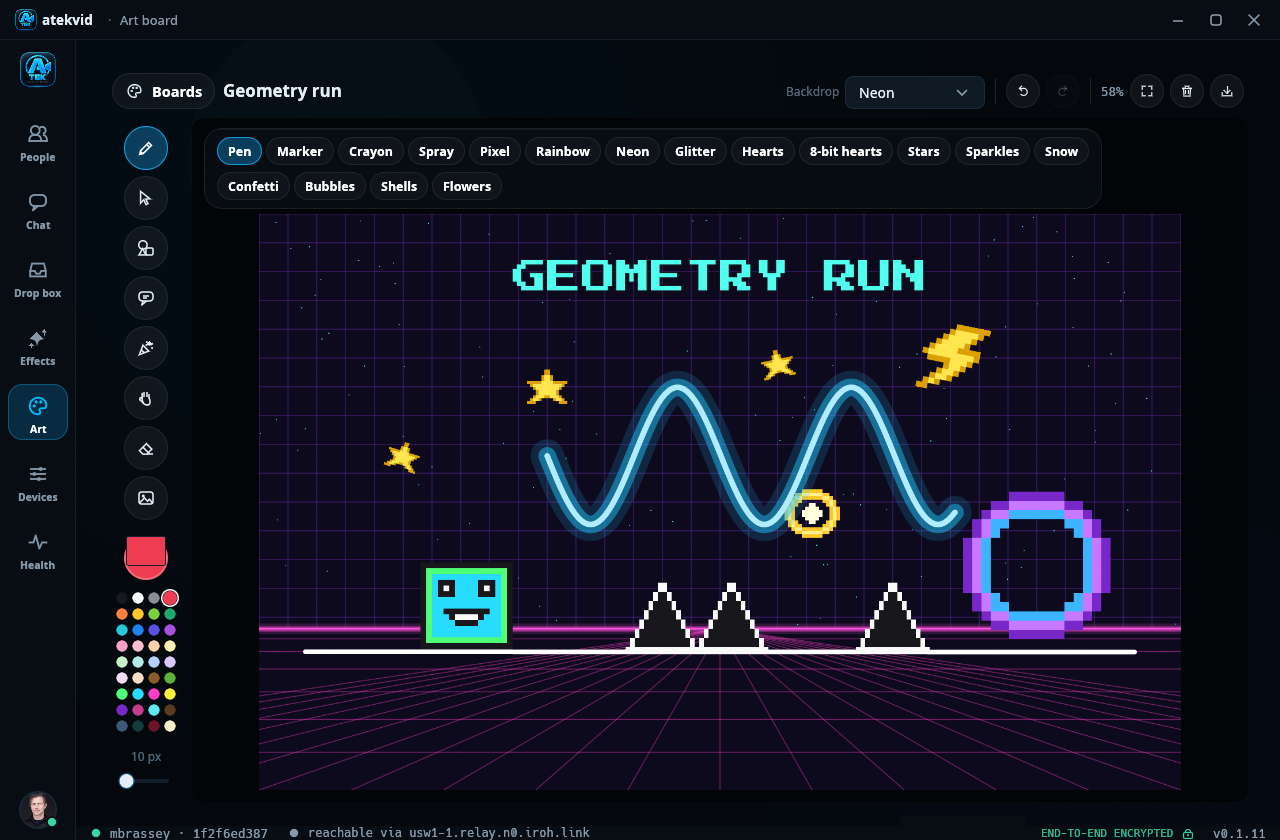
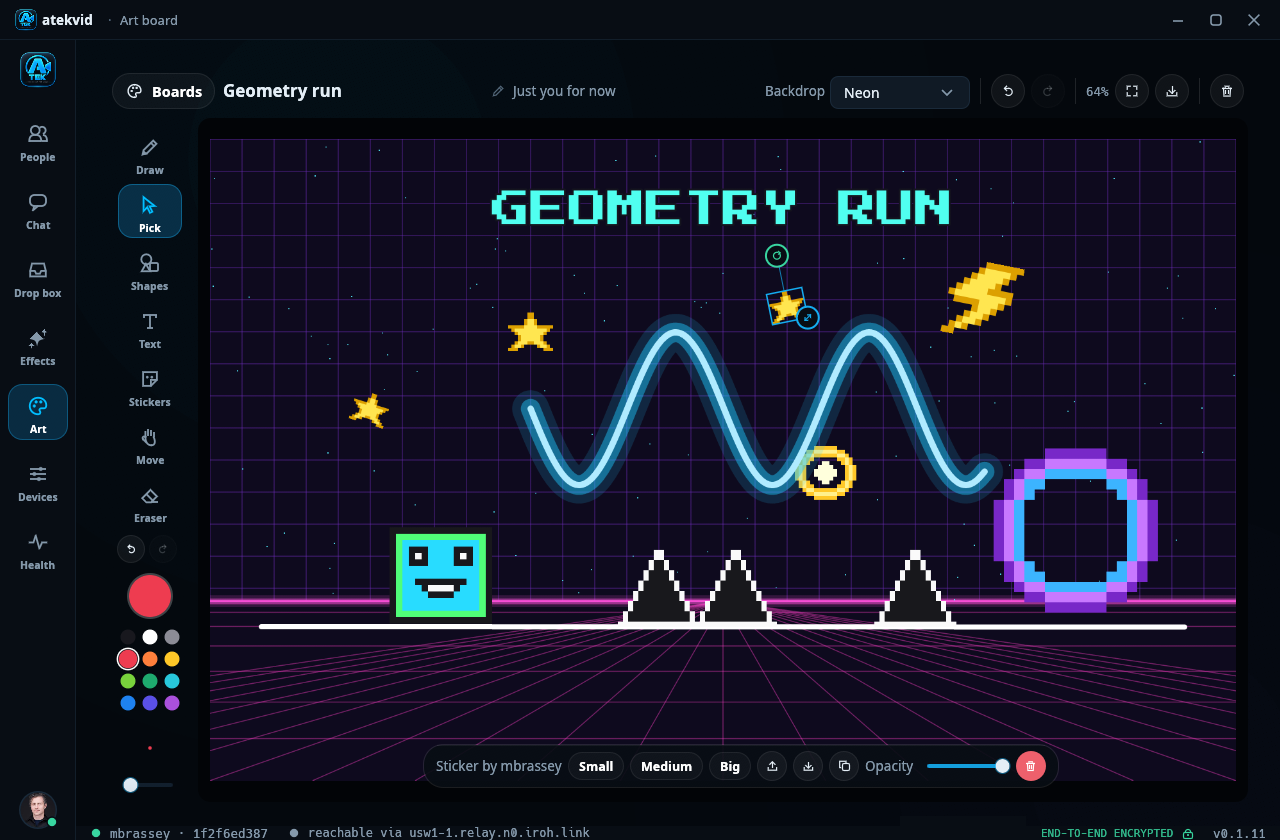
Art board: refreshed screens and the hardening notes

diff --git a/README.md b/README.md
@@ -89,10 +89,12 @@ by hand.
   hearts of every kind, a rainbow, a castle, a wand, a tiara and more). A
   pixel brush paints squares on a grid, a glitter brush sparkles in every
   colour, and starter boards give scenes to add to and pixel pictures to
-  colour in. Everything can be selected, moved,
-  scaled, rotated, layered, duplicated and undone. Boards have a name and a
-  backdrop (ocean, blocky world, neon, rainbow, clouds, hearts, paper, sky,
-  night and more), live in a gallery with thumbnails, save themselves, are offered
+  colour in. Everything can be selected, moved, scaled, rotated, layered,
+  duplicated and undone; clearing a board or deleting one for everyone asks
+  twice. Boards have a name and a backdrop (ocean, blocky world, neon,
+  rainbow, clouds, hearts, paper, sky, night and more), live in a gallery
+  with thumbnails, save themselves, merge cleanly when two devices drew
+  apart, are offered
   to everyone who comes online, and export to PNG. In a call the board takes
   the stage with the cameras beside it; strokes appear on the others' screens
   as they are drawn, with everyone's cursor and name.
@@ -164,9 +166,10 @@ person sharing sees their own share with a *Stop* button.
 
 <p align="center"><img src="docs/call-share.png" width="820" alt="A shared screen in a call"></p>
 
-**Art board.** A shared board two people are drawing on: brushes, shapes,
-text in several typefaces, emoji, stickers and an animated picture, with the
-tools down the side and the brushes along the top.
+**Art board.** A shared board two people are drawing on: brushes (each
+chip shows what it paints), shapes, text in several typefaces, emoji,
+stickers and an animated picture, with the tools down the side, the other
+person's pen on the board, and everything sized for small hands.
 
 <p align="center"><img src="docs/art-board.png" width="820" alt="The art board"></p>
 
@@ -184,8 +187,9 @@ a place to add a picture from disk (or drop one on the board).
 
 <p align="center"><img src="docs/art-stickers.png" width="820" alt="Stickers on the art board"></p>
 
-**The gallery.** Every board the circle has, with a thumbnail, its owner and
-what is on it; a new board takes a name and a backdrop.
+**The gallery.** Starting points first (a blank board, five scenes, eight
+pixel pictures to colour in), then every board the circle has, with a
+thumbnail, its owner and what is on it.
 
 <p align="center"><img src="docs/art-gallery.png" width="820" alt="The board gallery"></p>
 
@@ -346,7 +350,7 @@ sha256sum -c atekvid-x86_64-unknown-linux-gnu.tar.gz.sha256
 | Session keys | Inside every authenticated connection, an ephemeral X25519 exchange per link and per call, HKDF-SHA256 with both endpoint ids and the context (link or call id) in the salt, giving forward secrecy and one key set per direction. |
 | Payloads | ChaCha20-Poly1305 over every chat message, audio packet, video picture and file chunk, with the packet header as associated data. Nonces are `lane ‖ counter`: control, audio, video, the shared screen, the art board and each file transfer have their own lane and monotonic counter, so a nonce is never reused. |
 | Replay | The receiver keeps an anti-replay window per lane (RFC 6479 style, 2048 deep): every packet is accepted once, late packets within the window are fine, anything older or seen before is dropped. Chat is also de-duplicated by message id. |
-| Bounds | A device flooding control messages loses its link; reactions, typing notices and file offers are rate-limited per device; a link carries a bounded number of pictures in flight, each bounded in size, and nothing is buffered for pictures outside a call; decoded pictures beyond 4096×4096 are refused; chat messages are capped at 8 KiB. Art board changes are rate-limited per device and validated (bounded coordinates, points, text and element counts); pictures for the board are content-addressed, capped at 8 MiB and decoded no larger than 1200 px a side. |
+| Bounds | A device flooding control messages loses its link; reactions, typing notices and file offers are rate-limited per device; a link carries a bounded number of pictures in flight, each bounded in size, and nothing is buffered for pictures outside a call; decoded pictures beyond 4096×4096 are refused; chat messages are capped at 8 KiB. Art board changes are rate-limited per device and validated (bounded coordinates, points, revisions, text and element counts); an element carries its author and only that device may add it; a board may only be deleted by its owner and stays deleted; board pictures are content-addressed, capped at 8 MiB, decoded with size limits no larger than 1200 px a side, and accepted only from a device they were asked from; snapshot and picture requests are answered at most every few seconds; bulk board data travels on its own streams so it cannot hold up call signalling. |
 | Accounts | A key listed under two circle accounts is trusted for neither; each login's numeric GitHub id is pinned, so a login that changes hands is not the same person; a key removed from GitHub loses its link at the next refresh; GitHub's rate limits are honoured with validators, so unchanged answers cost no quota. |
 | Verification | A 30-digit safety code per connection, derived from the same exchange, shown in the call. If both screens agree, nobody is in the middle. |
 | Files | Chunks are bound to the transfer id and index, sizes are enforced, names are sanitised, writes go to a `.part` file renamed on completion. Nothing is downloaded until the recipient accepts. |
